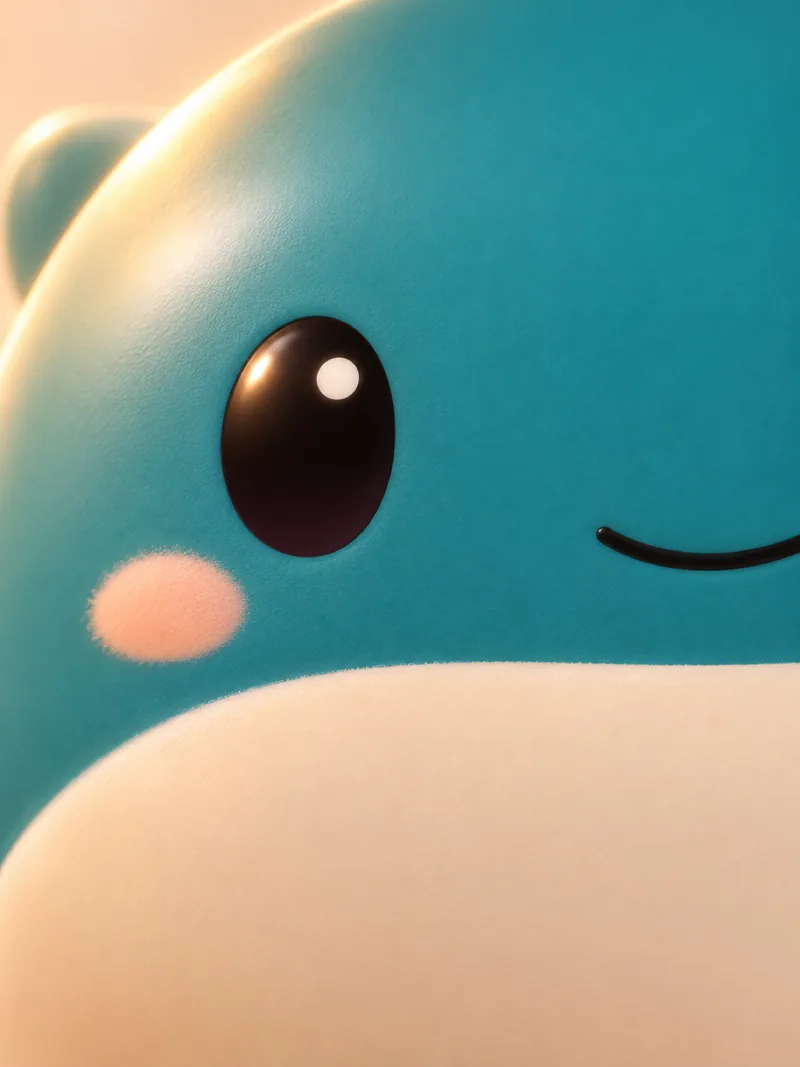
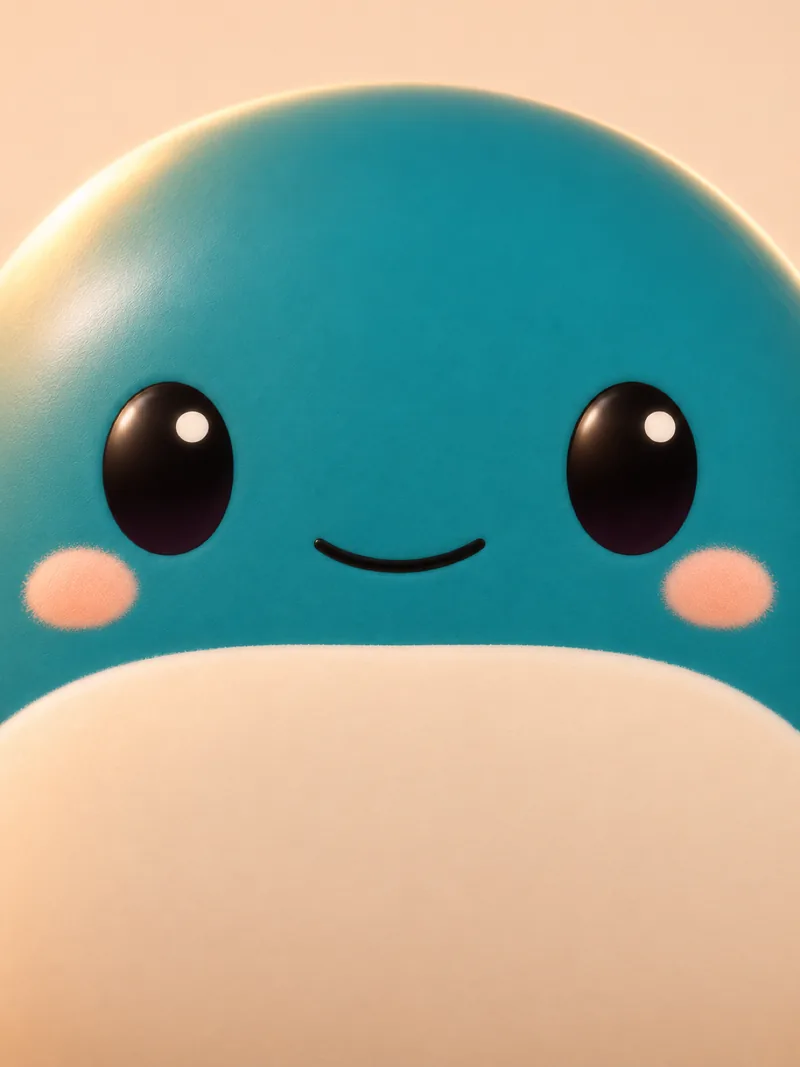
Website v2: swap in corrected Secret Wally, vinyl close-up and share image
Codex's review-04 revisions: glossy obsidian Molten Abyss in the rarity
row, Wally with both eyes open in the vinyl close-up, and a share image
with the real Pockle wordmark instead of generated lettering.

Claude-Session: https://claude.ai/code/session_01Fv3pinGE8MF2y91NSdX4kc

diff --git a/website/home/build_assets.py b/website/home/build_assets.py
@@ -5,9 +5,9 @@ import os
 src, out = 'ArtSource/Website', 'website/assets/home'
 jobs = [('H1/desktop.png','hero-desktop',2400),('H1/mobile.png','hero-mobile',1080),
  ('S1/walk.png','walk',1000),('S2/open-common.png','open',1000),('S3/play.png','play',1000),
- ('M1/jelly-macro.png','mat-jelly',800),('M2/plush-macro.png','mat-plush',800),('M3/vinyl-macro.png','mat-vinyl',800),('M4/glitter-macro.png','mat-glitter',800),
+ ('M1/jelly-macro.png','mat-jelly',800),('M2/plush-macro.png','mat-plush',800),('M3/vinyl-macro-v2.png','mat-vinyl',800),('M4/glitter-macro.png','mat-glitter',800),
  ('SE1/desktop.png','series-desktop',2400),('SE1/mobile.png','series-mobile',1080),
- ('SE2/common.png','tier-common',700),('SE2/rare.png','tier-rare',700),('SE2/epic.png','tier-epic',700),('SE2/secret.png','tier-secret',700),
+ ('SE2/common.png','tier-common',700),('SE2/rare.png','tier-rare',700),('SE2/epic.png','tier-epic',700),('SE2/secret-v2.png','tier-secret',700),
  ('SE3/finite-edition.png','edition',1200),('F1/desktop.png','fusion-desktop',2000),('F1/mobile.png','fusion-mobile',1080),
  ('T1/desktop.png','trade-desktop',2000),('T1/mobile.png','trade-mobile',1080),('W1/desktop.png','walk-desktop',2000),('W1/mobile.png','walk-mobile',1080),
  ('D1/desktop.png','closing-desktop',2400),('D1/mobile.png','closing-mobile',1080)]
